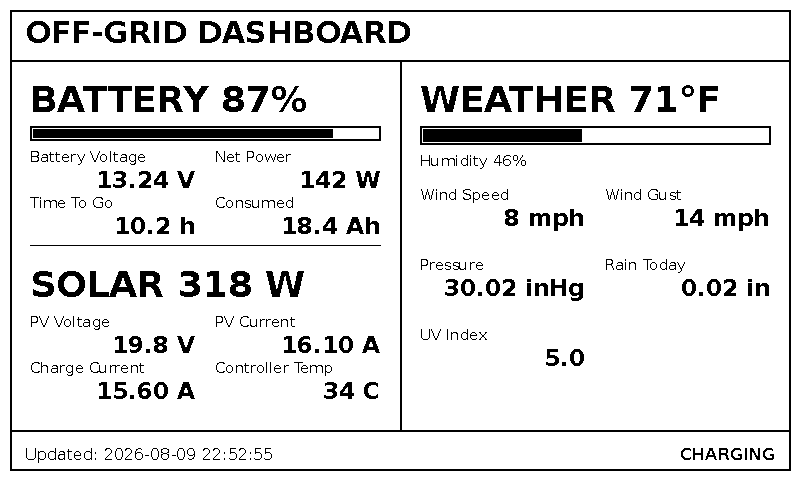
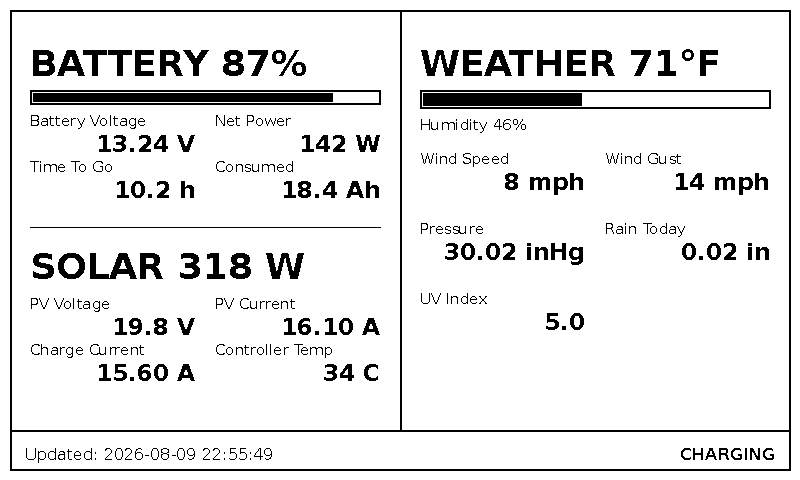
Better headings

diff --git a/scripts/epaper_dashboard.py b/scripts/epaper_dashboard.py
@@ -145,7 +145,6 @@ def draw_gauge(draw, x, y, w, h, pct):
 def render_dashboard(power, weather, W=EPD_W, H=EPD_H):
     """Renders the dashboard to a 1-bit PIL Image. Pure function of the metrics
     dicts, so it can be exercised without any e-Paper hardware present."""
-    font_title = ImageFont.truetype(FONT_BOLD, 30)
     font_heading = ImageFont.truetype(FONT_BOLD, 36)
     font_stat_label = ImageFont.truetype(FONT_REGULAR, 15)
     font_stat_value = ImageFont.truetype(FONT_BOLD, 23)
@@ -156,29 +155,25 @@ def render_dashboard(power, weather, W=EPD_W, H=EPD_H):
     draw = ImageDraw.Draw(image)
 
     MARGIN = 10
-    HEADER_Y = 60
+    CONTENT_TOP = MARGIN + 14
     FOOTER_Y = H - 50
     MID_X = W // 2
 
     # Frame
     draw.rectangle((MARGIN, MARGIN, W - MARGIN, H - MARGIN), outline=0, width=2)
-    draw.line((MARGIN, HEADER_Y, W - MARGIN, HEADER_Y), fill=0, width=2)
-    draw.line((MID_X, HEADER_Y, MID_X, FOOTER_Y), fill=0, width=2)
+    draw.line((MID_X, MARGIN, MID_X, FOOTER_Y), fill=0, width=2)
     draw.line((MARGIN, FOOTER_Y, W - MARGIN, FOOTER_Y), fill=0, width=2)
-
-    # Header
-    draw.text((MARGIN + 15, 15), "OFF-GRID DASHBOARD", font=font_title, fill=0)
 
     # ================= Left half: POWER (battery + solar, stacked) =================
     lx = MARGIN + 20
     lw = MID_X - lx - 20
     stat_w = lw // 2
 
-    # Battery and Solar each get an equal half of the vertical space below the
-    # header, so the two zones read as evenly spaced regardless of content.
-    ZONE_H = (FOOTER_Y - HEADER_Y) // 2
-    zone1_top = HEADER_Y
-    zone2_top = HEADER_Y + ZONE_H
+    # Battery and Solar each get an equal half of the vertical space, so the
+    # two zones read as evenly spaced regardless of content.
+    ZONE_H = (FOOTER_Y - CONTENT_TOP) // 2
+    zone1_top = CONTENT_TOP
+    zone2_top = CONTENT_TOP + ZONE_H
 
     # Divider between the battery and solar zones
     div_y = zone2_top
